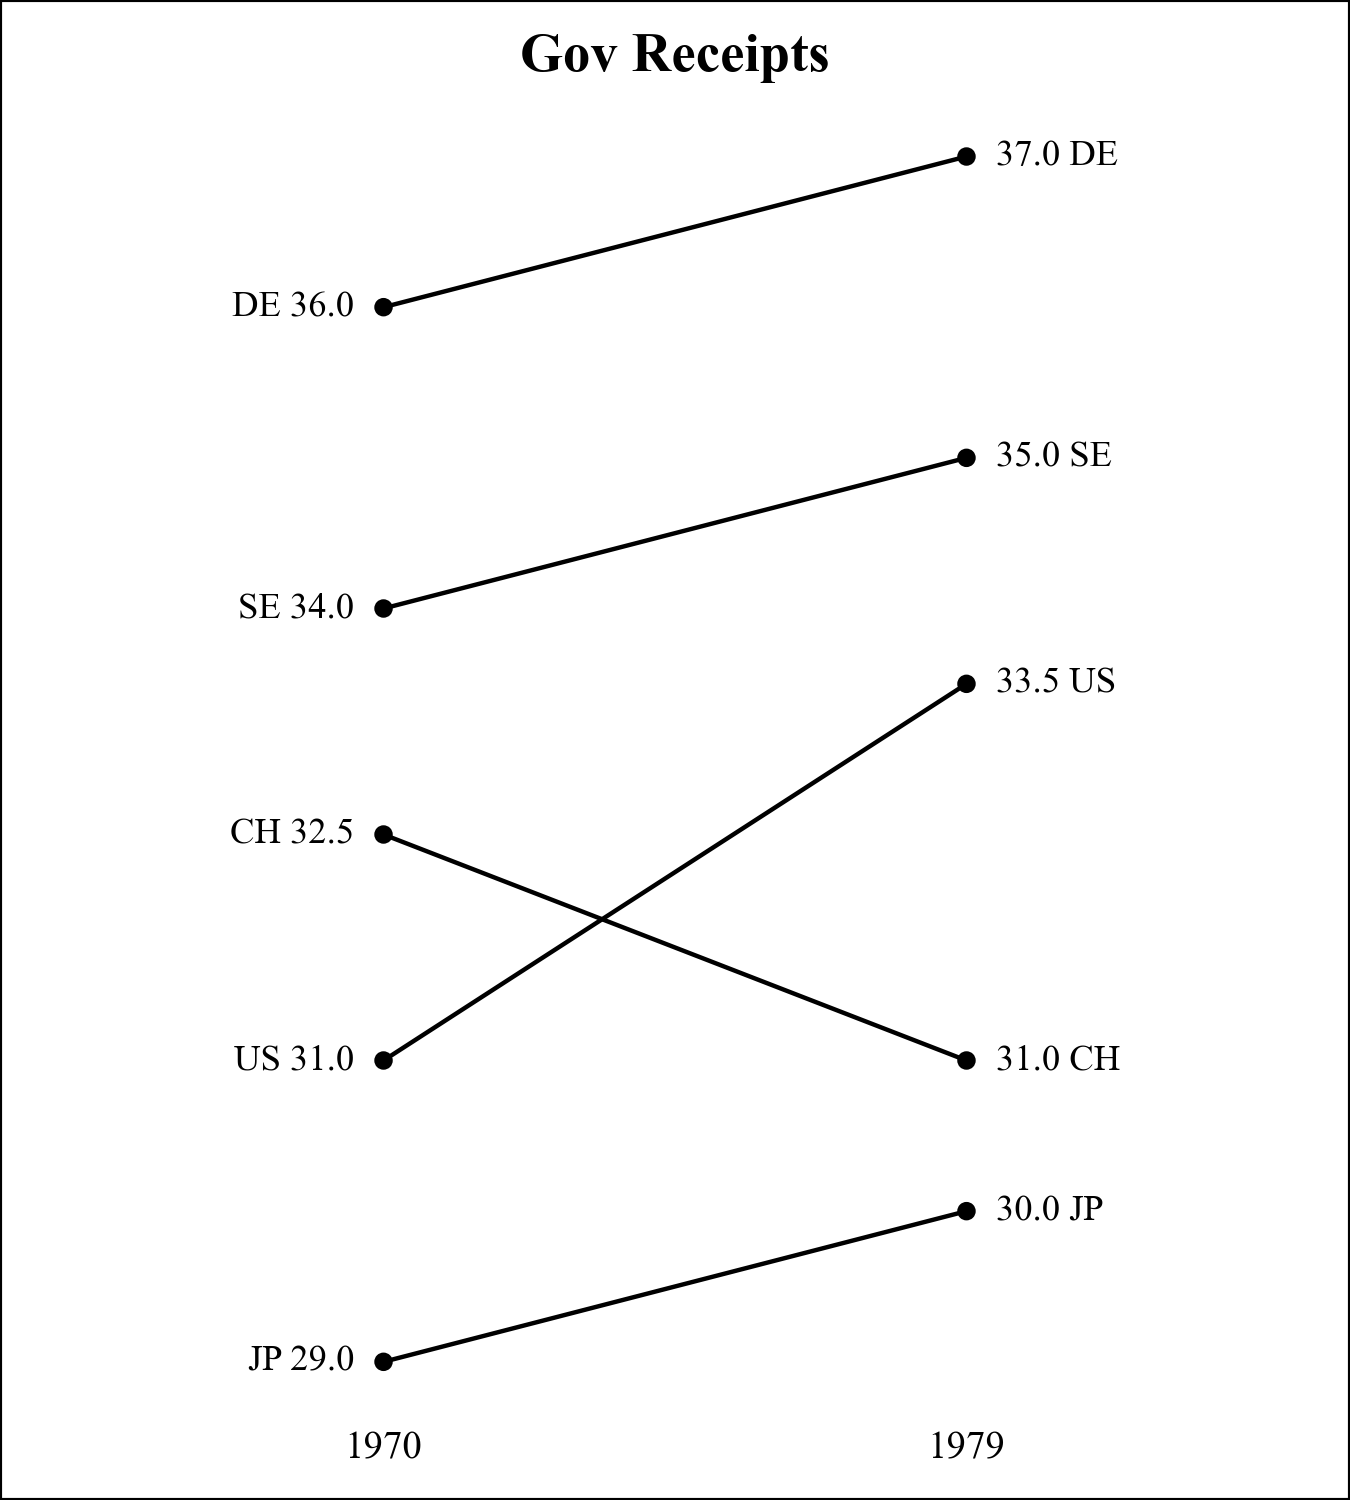
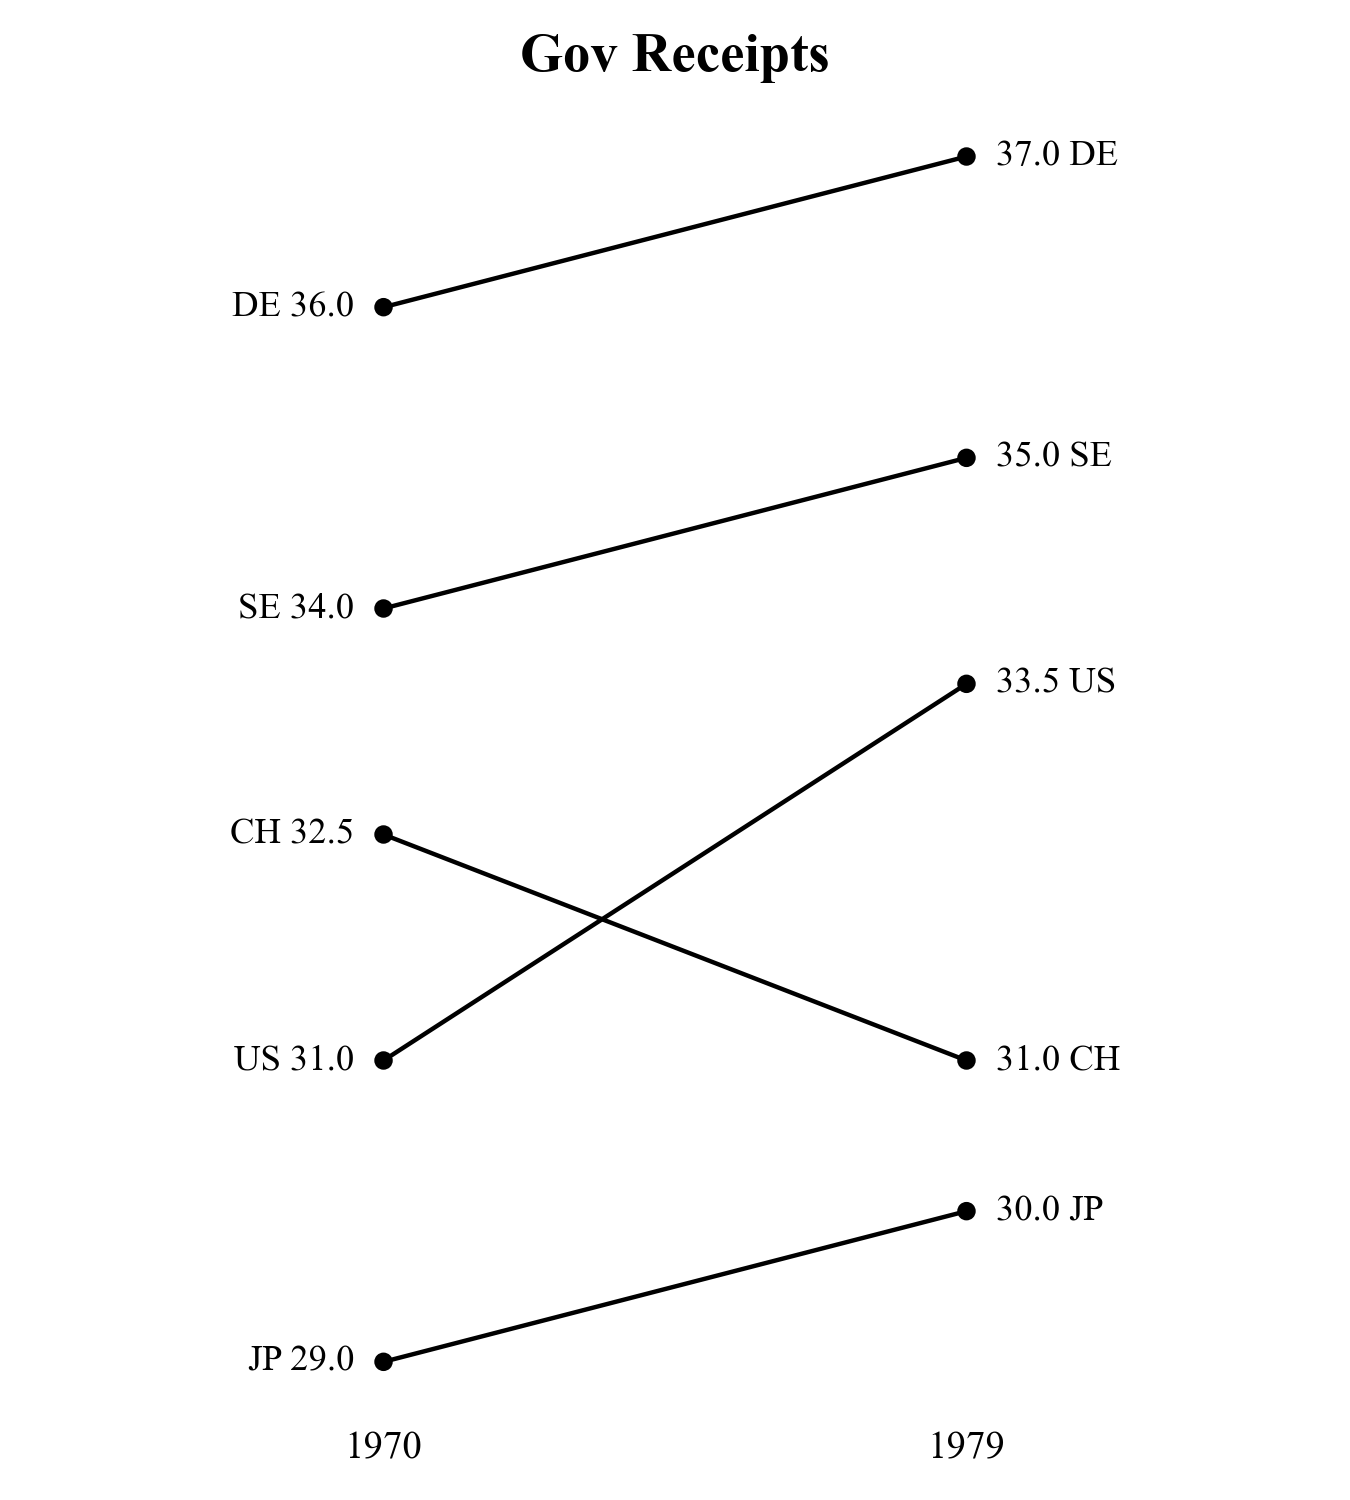
Schwarzen Rand um die generierten Plots entfernt

Changed region(s): [[0.9956, 0.0, 1.0, 1.0], [0.0, 0.9813, 0.0311, 1.0]]

diff --git a/src/dufteplots/config_theme.py b/src/dufteplots/config_theme.py
@@ -47,8 +47,8 @@ def tufte_theme(base_font: str = TUFTE_FONT) -> theme:
     """
     return theme_minimal(base_size=TUFTE_FONT_PLOT_SIZE, base_family=base_font) + theme(
         # Hintergrund
-        plot_background=element_rect(fill="white", color=None),
-        panel_background=element_rect(fill="white", color=None),
+        plot_background=element_rect(fill="white", color=None, size=0),
+        panel_background=element_rect(fill="white", color=None, size=0),
         panel_border=element_blank(),
         plot_margin=0.025,
         # Rasterlinien
